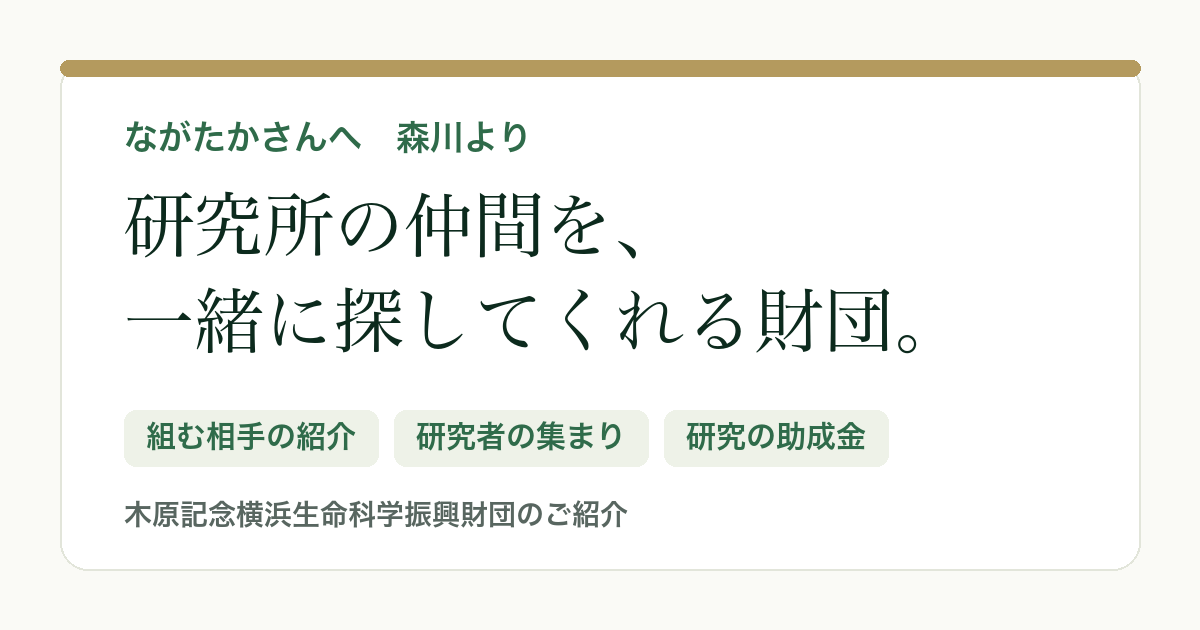
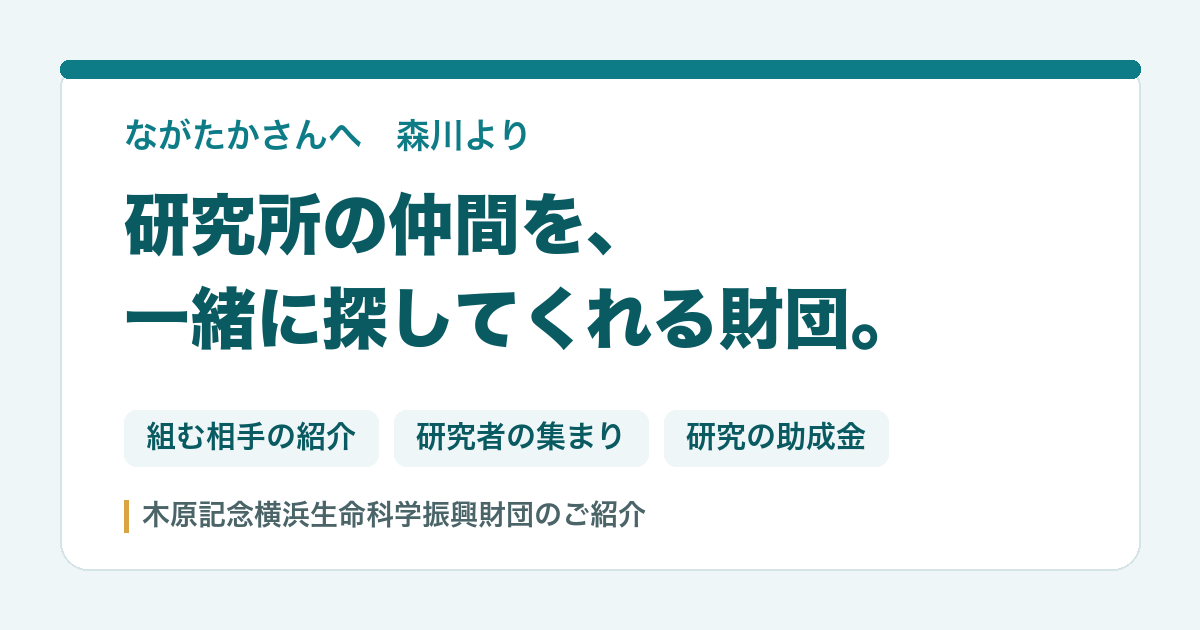
財団のご紹介：いつもの明るい緑系に変更（暗い表示なし）

diff --git a/zaidan/index.html b/zaidan/index.html
@@ -7,22 +7,21 @@
 <meta property="og:title" content="研究所の仲間を、一緒に探してくれる財団。">
 <meta property="og:description" content="横浜の木原記念横浜生命科学振興財団と出会いました。研究所でできること、進め方の案、ながたかさんに聞きたいこと。">
 <meta property="og:type" content="article">
-<meta property="og:image" content="https://mm738966m-boop.github.io/nagataka-share/zaidan/og.png">
+<meta property="og:image" content="https://mm738966m-boop.github.io/nagataka-share/zaidan/og.png?v=2">
 <meta name="twitter:card" content="summary_large_image">
 <link rel="preconnect" href="https://fonts.googleapis.com"><link rel="preconnect" href="https://fonts.gstatic.com" crossorigin>
-<link href="https://fonts.googleapis.com/css2?family=Noto+Sans+JP:wght@500;700;900&family=Shippori+Mincho:wght@700;800&display=swap" rel="stylesheet">
+<link href="https://fonts.googleapis.com/css2?family=Noto+Sans+JP:wght@500;700;900&family=M+PLUS+Rounded+1c:wght@700;800&display=swap" rel="stylesheet">
 <style>
-:root{--green:#2F6B4A;--deep:#173D2B;--forest:#0C2A1D;--leaf:#EEF2E8;--gold:#B49A5E;--ink:#1e2622;--muted:#586660;--bg:#FAFAF6;--paper:#fff;--hair:#E2E5DA;--goldbg:#F6EFD9;--goldtx:#8A6A1F;
---mincho:"Shippori Mincho","Hiragino Mincho ProN","Yu Mincho",serif;--goldgrad:linear-gradient(100deg,#9c8348 0%,#e6d7a8 45%,#b49a5e 70%,#8d7740 100%)}
-@media (prefers-color-scheme:dark){:root:not([data-theme="light"]){--ink:#E6EBE5;--muted:#A9B5AE;--bg:#0E1A14;--paper:#15241C;--hair:#2A3B32;--leaf:#1B2C23;--forest:#E9F0E9;--deep:#CFE3D5;--green:#8FC4A2;--goldbg:#3A321C;--goldtx:#E2C77E;color-scheme:dark}}
-:root[data-theme="dark"]{--ink:#E6EBE5;--muted:#A9B5AE;--bg:#0E1A14;--paper:#15241C;--hair:#2A3B32;--leaf:#1B2C23;--forest:#E9F0E9;--deep:#CFE3D5;--green:#8FC4A2;--goldbg:#3A321C;--goldtx:#E2C77E;color-scheme:dark}
+/* いつもの緑系（ティール×金）・白地で明るく。暗い表示にはしない */
+:root{--green:#0E7C86;--deep:#0A5A62;--forest:#0A5A62;--leaf:#EEF6F7;--gold:#D9A441;--ink:#1C3236;--muted:#4A6468;--bg:#F6FBFB;--paper:#fff;--hair:#D5E4E6;--goldbg:#FBF4E3;--goldtx:#A87A1F;
+--mincho:"M PLUS Rounded 1c","Hiragino Maru Gothic ProN","Noto Sans JP",sans-serif;--goldgrad:linear-gradient(100deg,#A87A1F 0%,#D9A441 60%,#C08E2E 100%);color-scheme:light}
 *{box-sizing:border-box}
-body{margin:0;background:var(--bg);color:var(--ink);font-family:"Noto Sans JP","Hiragino Kaku Gothic ProN",sans-serif;font-weight:500;font-size:17px;line-height:1.9;-webkit-text-size-adjust:100%}
-h1,h2,h3{font-family:var(--mincho);font-weight:800;letter-spacing:.04em;line-height:1.5;margin:0;color:var(--forest);text-wrap:balance}
+body{margin:0;background:var(--bg);color:var(--ink);font-family:"Noto Sans JP","Hiragino Kaku Gothic ProN",sans-serif;font-weight:500;font-size:18px;line-height:1.9;-webkit-text-size-adjust:100%}
+h1,h2,h3{font-family:var(--mincho);font-weight:800;letter-spacing:.03em;line-height:1.5;margin:0;color:var(--forest);text-wrap:balance}
 p{margin:0;text-wrap:pretty}
 p+p{margin-top:12px}
 .wrap{max-width:760px;margin:0 auto;padding-left:max(18px,env(safe-area-inset-left,0px));padding-right:max(18px,env(safe-area-inset-right,0px))}
-header{padding:34px 0 28px;border-bottom:1px solid var(--hair);background:radial-gradient(120% 80% at 85% 0%,rgba(180,154,94,.16),transparent 60%)}
+header{padding:34px 0 28px;border-bottom:1px solid var(--hair);background:radial-gradient(120% 90% at 90% 0%,rgba(14,124,134,.14),transparent 60%),radial-gradient(80% 70% at 0% 100%,rgba(217,164,65,.10),transparent 60%),#fff}
 .kick{display:inline-block;font-size:13px;font-weight:700;color:var(--green);letter-spacing:.14em;border-top:1px solid var(--gold);border-bottom:1px solid var(--gold);padding:4px 2px}
 h1{font-size:clamp(25px,6.8vw,40px);margin-top:16px}
 .lead{margin-top:14px;color:var(--muted);font-size:16px}
@@ -38,6 +37,7 @@ h2{font-size:clamp(22px,5.8vw,28px);margin:12px 0 18px}
 .facts li::before{content:"";position:absolute;left:16px;top:19px;width:10px;height:10px;border-radius:50%;background:var(--gold)}
 .cards{display:flex;flex-direction:column;gap:12px}
 .card{background:var(--paper);border-radius:8px;padding:16px 16px 14px;box-shadow:0 0 0 1px var(--hair);border-left:5px solid var(--green)}
+.card:nth-child(even){border-left-color:var(--gold)}
 .card .tags{display:flex;flex-wrap:wrap;gap:6px;margin-bottom:6px}
 .tag{font-size:12px;font-weight:700;border-radius:4px;padding:0 8px;line-height:1.9;background:var(--leaf);color:var(--green)}
 .tag.j{background:var(--goldbg);color:var(--goldtx)}
